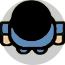
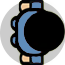
Add player controller

diff --git a/src/game/player.cpp b/src/game/player.cpp
@@ -1,16 +1,18 @@
 #include "Game/Player.h"
 #include "Engine/Collider.h"
 #include "Engine/Input.h"
+#include "Engine/Math.h"
 
 #include <iostream>
 
-const float SPEED = 200;
+const float MOVE_SPEED = 200;
+const float ROTATE_SPEED = 20;
 
 Player::Player(Vector2 p_pos, SDL_Texture *p_tex, TEAM team) : GameObject(p_pos, p_tex)
 {
     this->name = "player";
     this->team = team;
-    this->angle = (team == RED_TEAM) ? 90 : -90;
+    this->angle = (team == RED_TEAM) ? 0 : 180;
     this->active = true;
     new Collider(this, Collider::COLLIDER_CIRCLE);
 }
@@ -20,26 +22,28 @@ void Player::update(float deltaTime)
     GameObject::update(deltaTime);
 
     Vector2 movement = this->getMovementVector();
-
-    this->position += movement * SPEED * deltaTime;
+    this->position += movement * MOVE_SPEED * deltaTime;
+    this->angle = Math::LerpAngle(this->angle, movement.GetAngle(), ROTATE_SPEED * deltaTime);
 }
 
 Vector2 Player::getMovementVector()
 {
+    Vector2 move = Vector2(0, 0);
     if (this->active)
     {
         if (this->team == RED_TEAM)
         {
             if (Input::getKey(SDL_SCANCODE_W))
-                return Vector2(0, -1);
+                move.y = -1;
             if (Input::getKey(SDL_SCANCODE_S))
-                return Vector2(0, 1);
+                move.y = 1;
             if (Input::getKey(SDL_SCANCODE_A))
-                return Vector2(-1, 0);
+                move.x = -1;
             if (Input::getKey(SDL_SCANCODE_D))
-                return Vector2(1, 0);
+                move.x = 1;
         }
     }
+    return move;
 }
 
 void Player::setActive(bool active)

diff --git a/src/include/Engine/Math.h b/src/include/Engine/Math.h
@@ -1,0 +1,48 @@
+#pragma once
+
+#include "Vector2.h"
+
+class Math
+{
+public:
+    static float Lerp(float a, float b, float t)
+    {
+        return a + (b - a) * t;
+    }
+
+    static float LerpAngle(float a, float b, float t)
+    {
+        float num = Math::Repeat(b - a, 360);
+        if (num > 180)
+            num -= 360;
+        return a + num * Math::Clamp01(t);
+    }
+
+    static Vector2 Lerp(Vector2 a, Vector2 b, float t)
+    {
+        return Vector2(Lerp(a.x, b.x, t), Lerp(a.y, b.y, t));
+    }
+
+    static float Clamp(float value, float min, float max)
+    {
+        if (value < min)
+            return min;
+        if (value > max)
+            return max;
+        return value;
+    }
+
+    static float Clamp01(float value)
+    {
+        if (value < 0)
+            return 0;
+        if (value > 1)
+            return 1;
+        return value;
+    }
+
+    static float Repeat(float t, float length)
+    {
+        return Clamp(t - floor(t / length) * length, 0.0f, length);
+    }
+};

diff --git a/src/include/Engine/Vector2.h b/src/include/Engine/Vector2.h
@@ -135,7 +135,6 @@ inline void Vector2::Normalize()
 
 inline Vector2 &Vector2::operator=(const Vector2 &right)
 {
-    // проверка на самоприсваивание
     if (this != &right)
     {
         this->x = right.x;

diff --git a/src/include/Engine/GameObject.h b/src/include/Engine/GameObject.h
@@ -1,5 +1,4 @@
 #pragma once
-#include <SDL2/SDL.h>
 #include <SDL2/SDL_image.h>
 #include <vector>
 #include <string>
